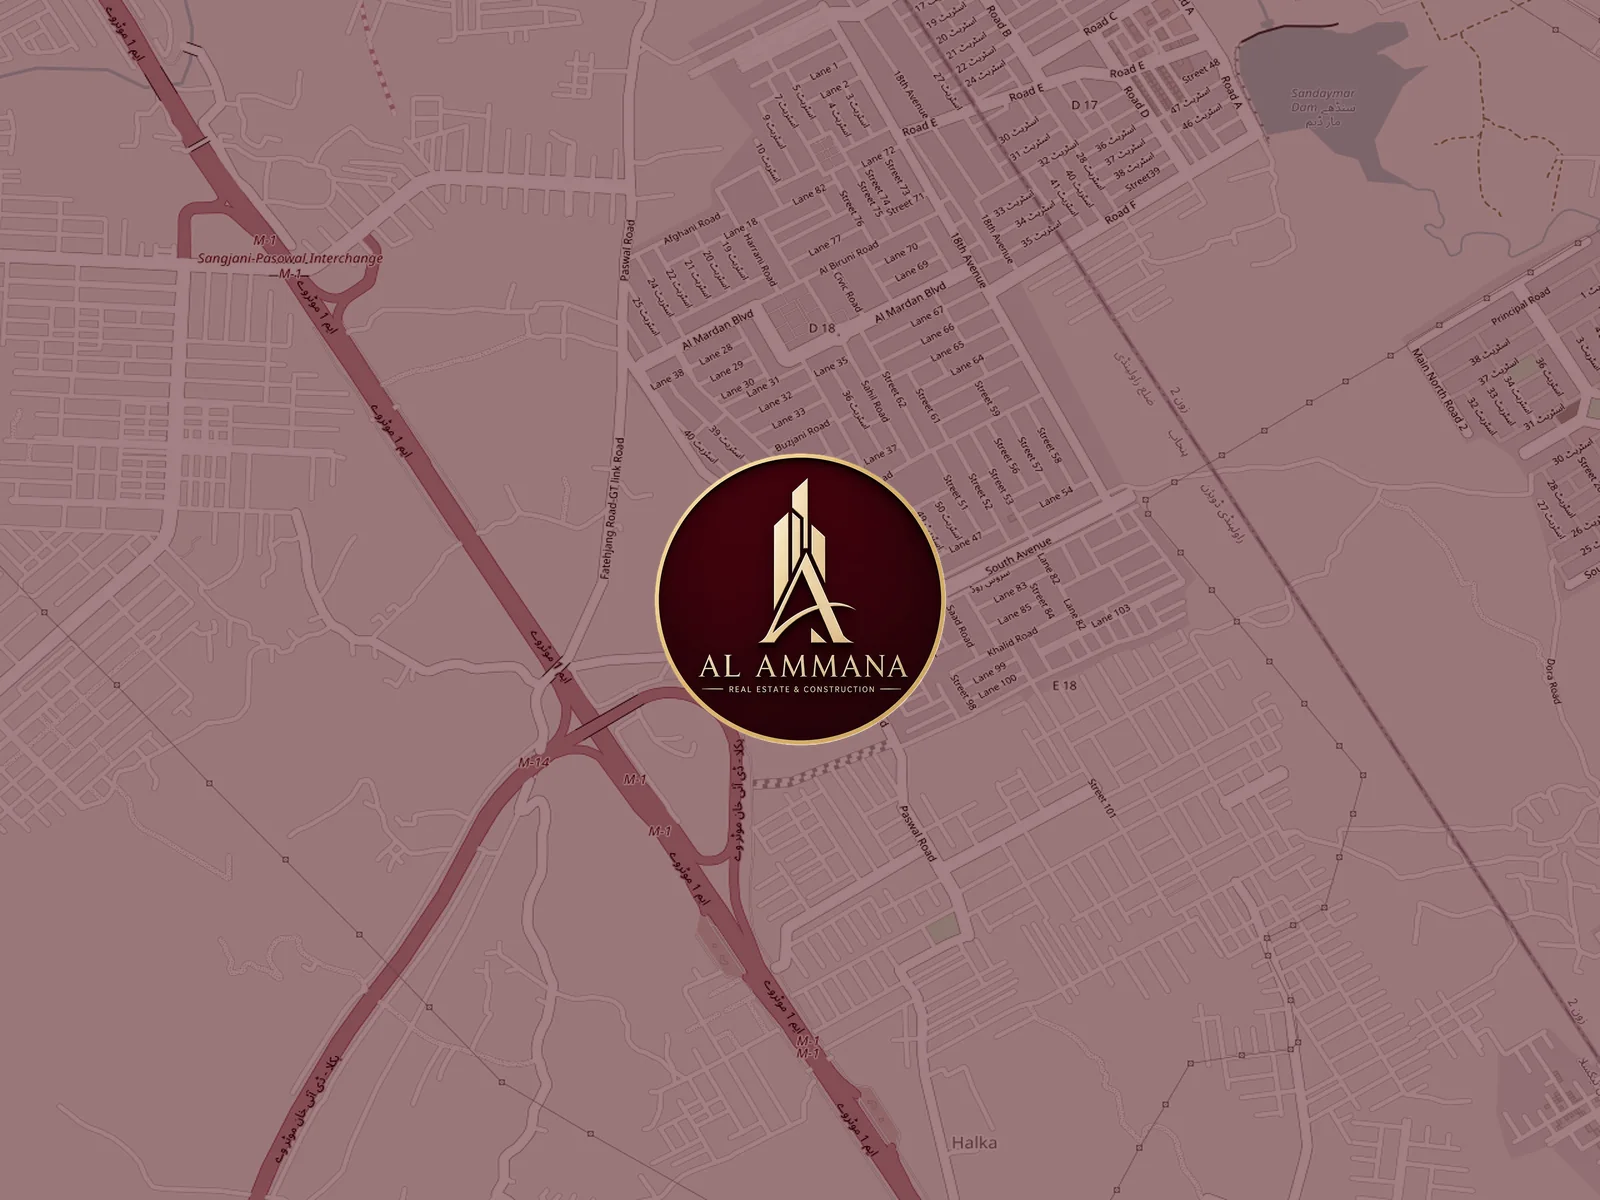
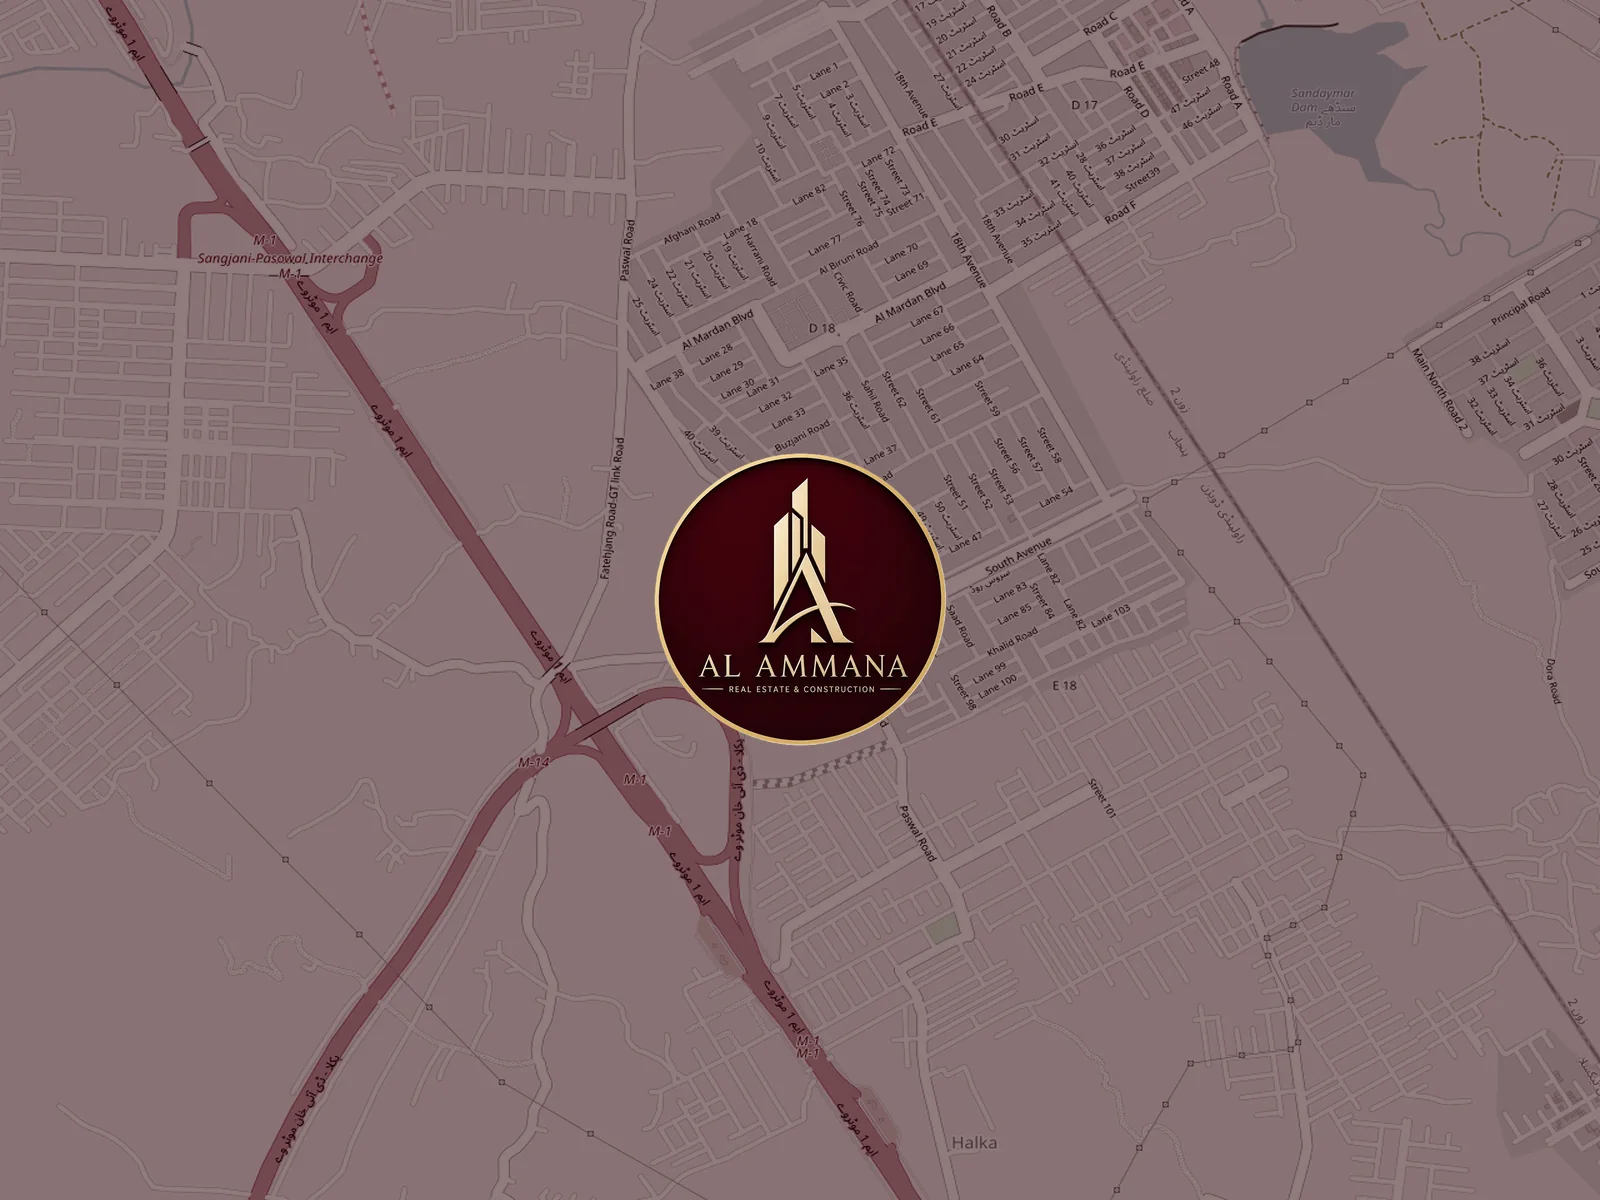
small color changes

diff --git a/src/index.css b/src/index.css
@@ -6,11 +6,26 @@
   --font-sans: "Inter", ui-sans-serif, system-ui, sans-serif;
   --font-serif: "Cormorant Garamond", serif;
   
-  --color-burgundy: #630D16;
+  /* Brand palette sampled from the logo itself, not chosen by eye.
+     The previous #630D16 read as red; the logo's actual field is a far deeper
+     maroon (dominant pixels #300000–#3C000C, average #3E020C) in the same
+     family as the Faisal Town identity. */
+  --color-burgundy: #3D0A11;        /* primary — buttons, headings, brand fields */
+  --color-burgundy-deep: #26050A;   /* darkest — large panels, logo-matched */
+  --color-burgundy-soft: #5C1A22;   /* hover and secondary accents */
+
+  /* Gold sampled from the logo lettering (average #DEBF85). */
+  --color-gold: #DEBF85;
+  --color-sand: #D4C3A3;            /* lighter neutral for borders and rules */
+
   --color-beige: #F5F2ED;
-  --color-sand: #D4C3A3;
   --color-paper: #FDFBF7;
   --color-ink: #2D2926;
+
+  /* Status colours, desaturated so they sit beside the maroon instead of
+     fighting it. Tailwind's stock green-700/amber-600 looked bolted on. */
+  --color-status-approved: #3F6B4A;
+  --color-status-pending: #9A6B2F;
 }
 
 @layer base {
@@ -27,6 +42,14 @@
 .text-burgundy { color: var(--color-burgundy); }
 .border-burgundy { border-color: var(--color-burgundy); }
 .border-sand { border-color: var(--color-sand); }
+
+.bg-burgundy-deep { background-color: var(--color-burgundy-deep); }
+.bg-burgundy-soft { background-color: var(--color-burgundy-soft); }
+.text-gold { color: var(--color-gold); }
+.border-gold { border-color: var(--color-gold); }
+
+.bg-status-approved { background-color: var(--color-status-approved); }
+.bg-status-pending { background-color: var(--color-status-pending); }
 
 .bg-beige { background-color: var(--color-beige); }
 .text-beige { color: var(--color-beige); }

diff --git a/src/app/societies/[id]/page.tsx b/src/app/societies/[id]/page.tsx
@@ -50,8 +50,8 @@ export async function generateMetadata({ params }: { params: Promise<{ id: strin
 }
 
 const statusBadge: Record<string, { cls: string; icon: React.ReactNode }> = {
-  Approved: { cls: 'bg-green-700', icon: <CheckCircle2 size={13} /> },
-  'In Process': { cls: 'bg-amber-600', icon: <Clock size={13} /> },
+  Approved: { cls: 'bg-status-approved', icon: <CheckCircle2 size={13} /> },
+  'In Process': { cls: 'bg-status-pending', icon: <Clock size={13} /> },
   'Pre-Launch': { cls: 'bg-white/20', icon: <Sparkles size={13} /> },
 };
 
@@ -165,7 +165,7 @@ export default async function SocietyPage({ params }: { params: Promise<{ id: st
           </div>
 
           <aside className="space-y-6">
-            <div className={`rounded-[28px] p-8 border ${s.approvalStatus === 'Approved' ? 'bg-green-50 border-green-200' : 'bg-amber-50 border-amber-300'}`}>
+            <div className={`rounded-[28px] p-8 border ${s.approvalStatus === 'Approved' ? 'bg-[#F0F5F1] border-[#C6D8CC]' : 'bg-[#FBF4E8] border-[#E0C89A]'}`}>
               <h3 className="text-[12px] uppercase tracking-widest font-bold text-ink/50 mb-3">Approval Status</h3>
               <p className="font-serif text-xl text-ink leading-snug mb-3">{s.approvalStatus}</p>
               <p className="text-sm text-ink/70 leading-relaxed">{s.approval}</p>

diff --git a/src/app/payment-plans/PaymentPlansClient.tsx b/src/app/payment-plans/PaymentPlansClient.tsx
@@ -48,7 +48,7 @@ export default function PaymentPlansClient() {
     <div className="pt-20">
       {/* Hero */}
       <section className="bg-beige relative overflow-hidden">
-        <div className="absolute top-0 left-0 w-full h-full opacity-10 pointer-events-none bg-[radial-gradient(circle_at_center,_#8B2635_1px,_transparent_1px)] bg-[length:28px_28px]"></div>
+        <div className="absolute top-0 left-0 w-full h-full opacity-10 pointer-events-none bg-[radial-gradient(circle_at_center,_#3D0A11_1px,_transparent_1px)] bg-[length:28px_28px]"></div>
         <div className="max-w-[1600px] mx-auto px-4 py-20 md:py-28 relative z-10">
           <motion.div initial={{ opacity: 0, y: 30 }} animate={{ opacity: 1, y: 0 }} transition={{ duration: 0.7 }}>
             <div className="flex items-center gap-2 mb-6">

diff --git a/src/app/societies/page.tsx b/src/app/societies/page.tsx
@@ -35,8 +35,8 @@ export const metadata: Metadata = {
 };
 
 const statusStyle: Record<string, { cls: string; icon: React.ReactNode }> = {
-  Approved: { cls: 'bg-green-700 text-white', icon: <CheckCircle2 size={12} /> },
-  'In Process': { cls: 'bg-amber-600 text-white', icon: <Clock size={12} /> },
+  Approved: { cls: 'bg-status-approved text-white', icon: <CheckCircle2 size={12} /> },
+  'In Process': { cls: 'bg-status-pending text-white', icon: <Clock size={12} /> },
   'Pre-Launch': { cls: 'bg-ink text-white', icon: <Sparkles size={12} /> },
 };
 

diff --git a/src/components/LeadForm.tsx b/src/components/LeadForm.tsx
@@ -107,7 +107,7 @@ export default function LeadForm({
       <motion.div
         initial={{ opacity: 0, y: 12 }}
         animate={{ opacity: 1, y: 0 }}
-        className="rounded-3xl border border-amber-300 bg-amber-50 p-10 text-center"
+        className="rounded-3xl border border-[#E0C89A] bg-[#FBF4E8] p-10 text-center"
       >
         <h3 className="text-2xl font-serif italic mb-3">We could not send that just now</h3>
         <p className="text-sm text-ink/70 leading-relaxed mb-8 max-w-md mx-auto">
